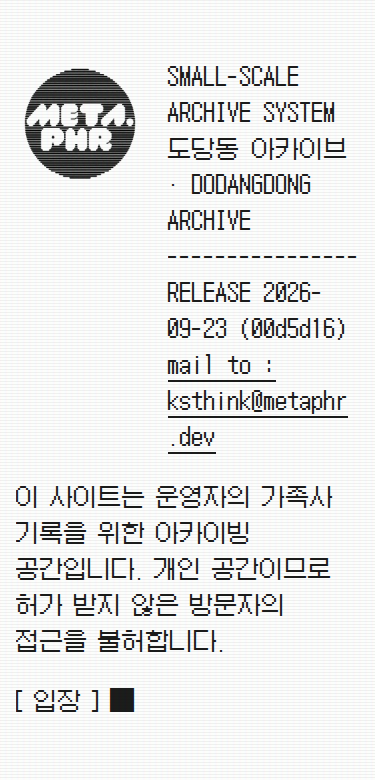
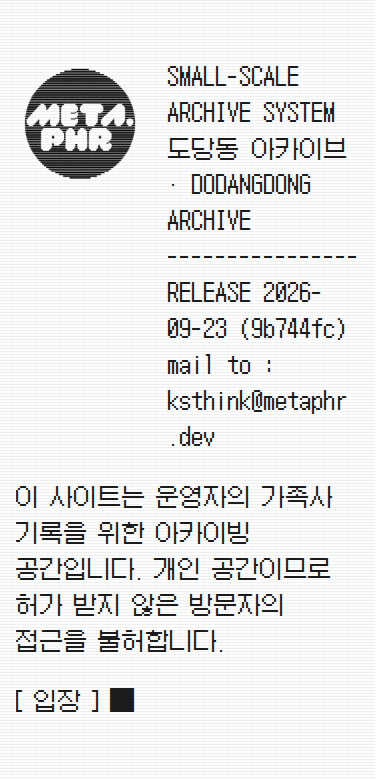
편지 줄을 한 단계 줄이고 밑줄을 걷어낸다
48 → 36(낮은 창·좁은 화면에서는 24). 밑줄 대신, 올렸을 때 먹색으로
뒤집히는 것으로 누를 수 있음을 알린다.

Changed region(s): [[0.6462, 0.4, 0.8615, 0.4308]]

diff --git a/src/app/intro/intro.css b/src/app/intro/intro.css
@@ -113,8 +113,9 @@
 .intro-key:hover, .intro-key:focus-visible { background: var(--intro-ink); color: var(--intro-paper); outline: 0 }
 .intro-key[disabled] { cursor: default; opacity: 0.4 }
 
-/* 만든 곳에 편지 보내기 — 단추(대괄호)와 헷갈리지 않게 밑줄로 표시한다 */
-.intro-mail { text-decoration: underline; text-underline-offset: 4px; text-decoration-thickness: 2px }
+/* 만든 곳에 편지 보내기. 밑줄은 긋지 않고, 올리면 먹색으로 뒤집혀 누를 수 있음을 알린다.
+   머리글보다 한 단계 작다(48 → 36) */
+.intro-mail { display: inline-block; font-size: 36px; line-height: 48px; text-decoration: none }
 .intro-mail:hover, .intro-mail:focus-visible { background: var(--intro-ink); color: var(--intro-paper); outline: 0 }
 
 /* 네모 커서. 깜빡이지 않는다 — 가만히 놓인 표시다 */
@@ -142,6 +143,7 @@
 @media (max-height: 800px) {
   .intro { font: var(--text-title) }
   .intro-head > div, .intro-form input { font-size: 36px; line-height: 48px }
+  .intro-mail { font-size: 24px; line-height: 36px }
   .intro-logo { width: 144px }
 }
 
@@ -154,6 +156,7 @@
   /* 좁은 화면에서는 본문 크기로 — 갈무리 격자를 지킨다(24px) */
   .intro { font: var(--text-body); padding: 24px 16px }
   .intro-head > div, .intro-form input { font-family: var(--font-mono); font-size: 24px; line-height: 36px }
+  .intro-mail { font-size: 24px; line-height: 36px }
 }
 
 /* 움직임을 줄여 달라고 한 사람에게는 정지 화면으로 */

diff --git a/DESIGN.md b/DESIGN.md
@@ -328,7 +328,8 @@
   (`/brand/metaphr-crt.png`, 384px). 그림에 이미 줄이 그어져 있으므로 CSS 로 덧입히지 않는다.
   꼬리말의 낱말형 로고는 그대로다.
 - 오른쪽은 기계가 제 이름을 대는 머리글이다. 배포한 날짜와 배포번호(커밋 일곱 자리)를 적고,
-  마지막 줄 `mail to : ksthink@metaphr.dev` 는 편지 링크다(대괄호 단추와 헷갈리지 않게 밑줄로 표시한다).
+  마지막 줄 `mail to : ksthink@metaphr.dev` 는 편지 링크다. 머리글보다 한 단계 작고(48 → 36),
+  밑줄은 긋지 않는다 — 올리면 먹색으로 뒤집혀 누를 수 있음을 알린다.
 - 단추는 `[ 입장 ]` 처럼 대괄호로 감싼다. 커서는 네모(`█`)이고, **깜빡이지 않는다.**
 - 입력칸은 테두리 없이 밑줄(2px) 하나로 긋는다.
 - 부팅 연출(줄이 한 줄씩 떨어지는 것)은 **그 브라우저의 첫 방문에만** 돈다. 두 번째부터는 곧바로 다 그려진다.
